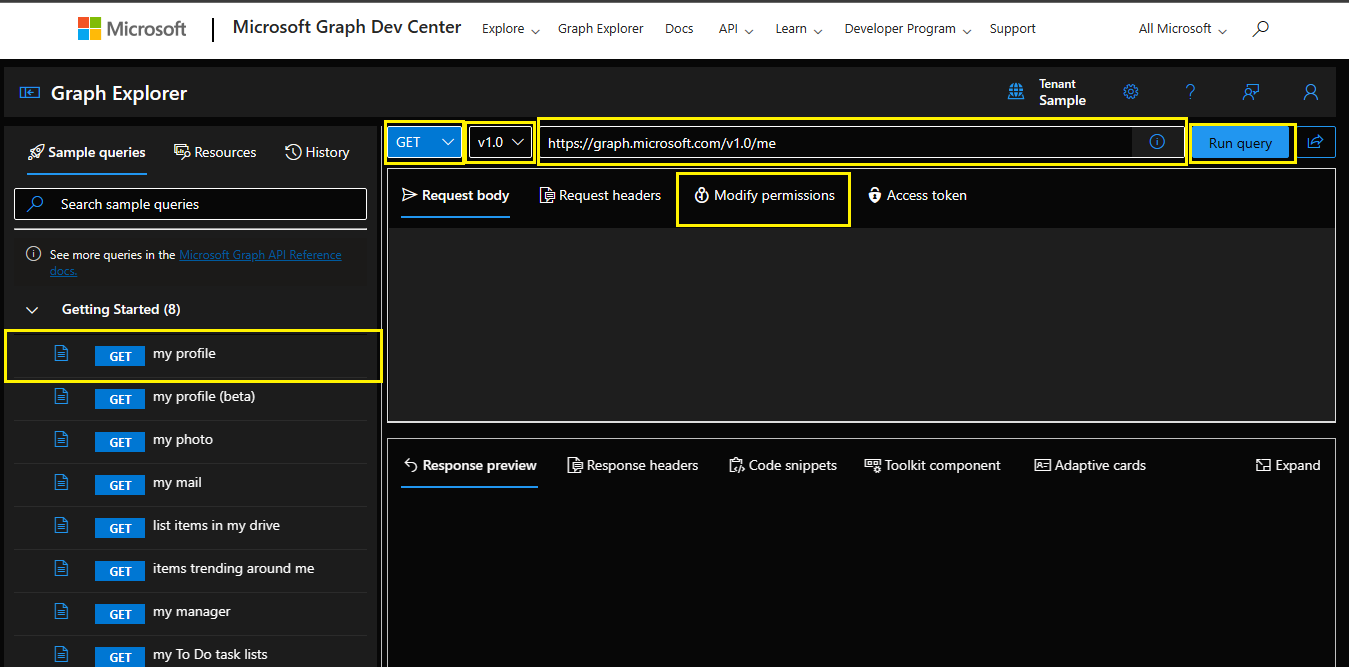
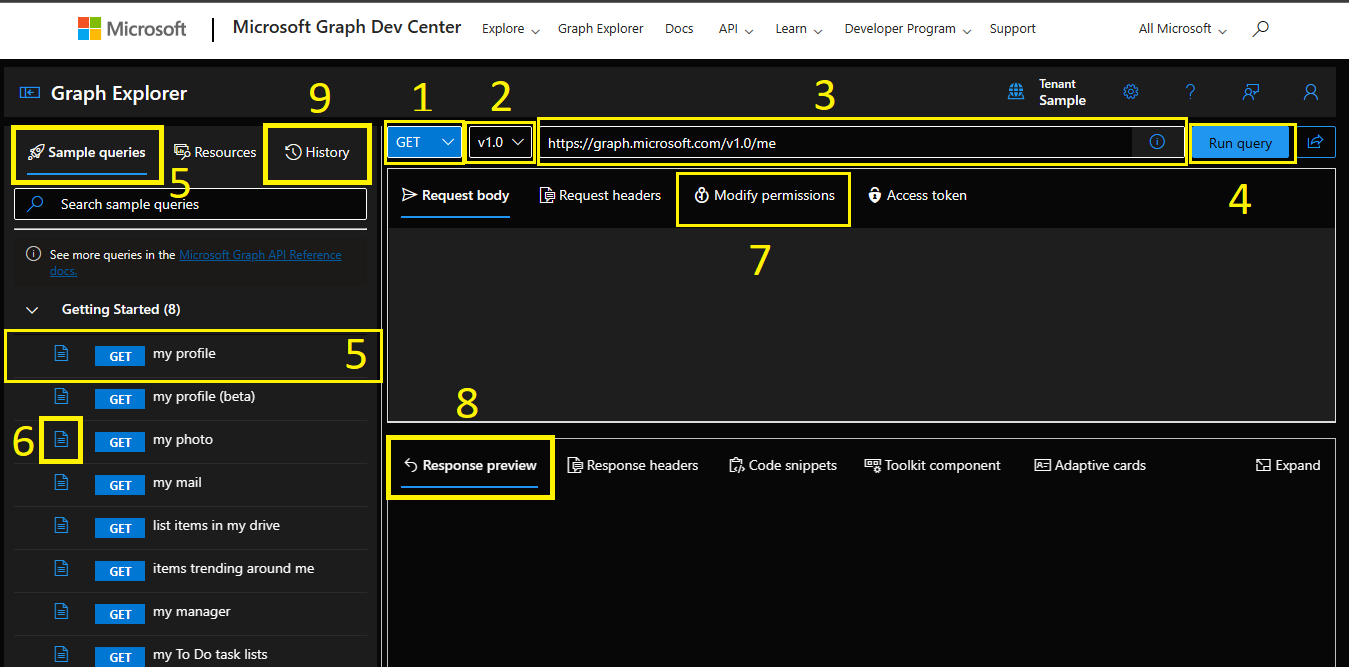
Mucha info

diff --git a/content/graph-explorer.md b/content/graph-explorer.md
@@ -1,7 +1,7 @@
 # Explorando Graph Explorer
 
 ## ¿Qué es?
-Antes de construir aplicaciones basadas en servicios de terceros, suelen ser necesarias pruebas de funcionamiento. En el caso de la API de Microsoft Graph, existe Microsoft Graph Explorer. Una herramienta gratuita de código abierto disponible desde cualquier navegador moderno; está pensada para que desarrolladores puedan:
+Antes de construir aplicaciones basadas en servicios de terceros, suelen ser necesarias pruebas de funcionamiento. En el caso de la API de Microsoft Graph, existe Microsoft Graph Explorer. Una herramienta gratuita de código abierto disponible desde cualquier navegador moderno; pensada para que desarrolladores puedan:
 
 - Probar las API de Microsoft Graph.
 - Obtener información sobre los permisos necesarios para las distintas API.
@@ -15,6 +15,7 @@ Para hacer uso de Microsoft Graph Explorer, da click [aquí](https://developer.m
 
 La siguiente captura muestra el Microsoft Graph Explorer.
 
+![Probador](../images/ProbadorMicrosoftGraph.png)
 
 1. Lista desplegable con verbos HTTP: GET, POST, PUT, PATCH y DELETE.
 
@@ -28,7 +29,7 @@ La siguiente captura muestra el Microsoft Graph Explorer.
 
 6. Vínculos a la documentación de API de cada consulta de ejemplo.
 
-7. Pestaña Modificar permisos: donde se enumeran todos los permisos que puede que necesite para ejecutar la consulta. 
+7. Pestaña Modificar permisos: donde se enumeran todos los permisos que pueden necesitarse para ejecutar la consulta. 
 
 8. Response preview: en formato JSON. 
 
@@ -38,12 +39,17 @@ La siguiente captura muestra el Microsoft Graph Explorer.
 
 Como primer ejemplo, podemos realizar una consulta a nuestro perfil. Para esto, usaremos una de las consultas de muestra, estas están dispnonibles para usar aunque no hayas iniciado sesión e un tenant de prueba. 
 
-1. Ve a la parte lateral derecha y selecciona `my profile` dentro del menú de `getting started`. Esto cambiará el endpoint dentro del edito de consultas.
-2. Da click en `Run query`. Y espera la respuesta.
-3. Observa que además del resultado de la consulta en `Response preview`, se habilita un cuadro con un código de status de la consulta. Un 200 indica que todo ha ido bien, para saber más de códigos de status da click [aquí](https://http.cat/?azure-portal=true).
+1. Ve a la parte lateral derecha y selecciona `my profile` dentro del menú de `getting started`. Esto cambiará el endpoint dentro del editor de consultas. Da click en `Run query`. Y espera la respuesta.
 
-4. Puedes ampliar el cuadro de `Response preview` para acceder a 
+![Alt text](../images/RS2.png)
 
+2. Observa que además del resultado de la consulta en `Response preview`, se habilita un cuadro con un código de status de la consulta. Un 200 indica que todo ha ido bien, para saber más de códigos de status da click [aquí](https://http.cat/?azure-portal=true).
+
+![Alt text](../images/RS3.png)
+
+4. Puedes ampliar el cuadro de `Response preview` para acceder a la respuesta JSON completa.
+
+![Alt text](../images/RS4.png)
 
 https://learn.microsoft.com/es-mx/graph/graph-explorer/graph-explorer-overview?context=graph%2Fapi%2F1.0&view=graph-rest-1.0
 

diff --git a/content/Construcción del endpoint.md b/content/Construcción del endpoint.md
@@ -1,0 +1,32 @@
+# Construcción del endpoint
+
+A través de una API...
+
++ Obtener perfiles de la organización
+	Definir criterios o filtros para determinar:
+	Perfiles activos 
+	Perfiles inactivos
+
++ Obtener actividad de perfiles 
+	Por rango de fechas definidas por el usuario
+
++ Tiempo de actividades 
+	Teams
+	Outlook
+	Sharepoint
+	Yammer/Viva engage 
+	Llamadas/Mensajes
+
++ Número de llamadas/chats
+	De cada usuario por fechas
+
++Tráfico de información 
+	Tipo y tamaño de archivo 
+
+https://graph.microsoft.com/v1.0/users/{userid}
+https://graph.microsoft.com/v1.0/users/{userid}/drive
+https://graph.microsoft.com/v1.0/users/1afcd080-0396-4846-85c6cfa221b27879/drive/root?$expand=children($select=id,name,size)
+https://graph.microsoft.com/v1.0/users/1afcd080-0396-4846-85c6-cfa221b27879/drive/recent
+
+
+

diff --git a/README.md b/README.md
@@ -16,12 +16,15 @@ Al final de este workshop:
 
 ## Video
 Acompáñanos en este video de guía y aprende visualmente.
+
 [![Video de guía](./images/MSGraph.jpg)](https://aka.ms/May10PoderDeDatosMicrosoftGraph "Video de guía")
 
 ## Contenido
 
 - [Introducción a Microsoft Graph.](content/graph-explorer.md)
 - [Graph Explorer](content/graph-explorer.md)
+
+- [Construcción del endpoint]()
 
 ## Recursos
 
